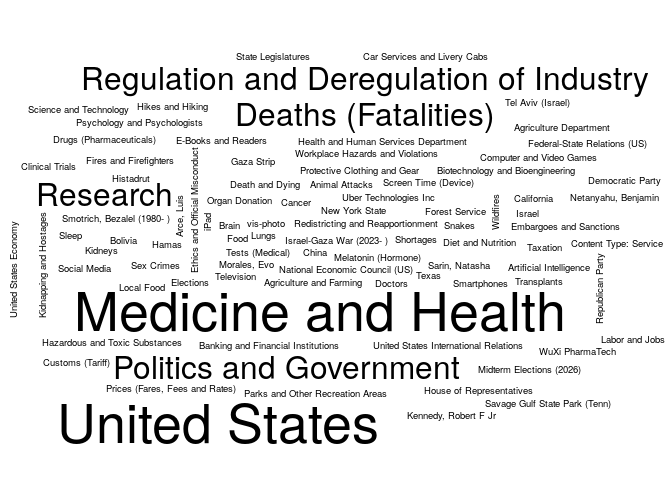
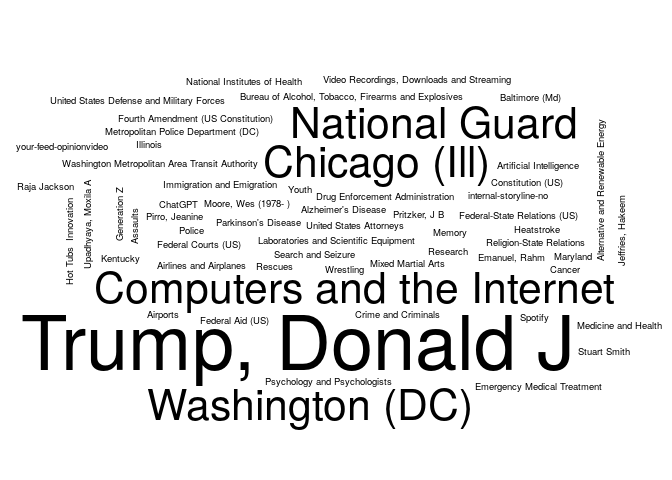
Updating the NYT report

Changed region(s): [[0.0312, 0.0938, 1.0, 0.9375], [0.0, 0.4688, 0.0312, 0.6562]]

diff --git a/03-nytimes/README.md b/03-nytimes/README.md
@@ -5,7 +5,7 @@ The following is an example of how to use the [NYTimes
 API](https://developer.nytimes.com/) to get a list of articles related
 to a particular term. Here we are searching articles that include the
 term `"health"`, and that were published up to seven days ago since
-2025-08-18.
+2025-08-25.
 
 ``` r
 # Preparing a function to use the GET method with the NYTimes API
@@ -83,25 +83,25 @@ colnames(tab) <- c("Keyword", "# Articles")
 knitr::kable(tab, row.names = FALSE)
 ```
 
-| Keyword                                 | \# Articles |
-|:----------------------------------------|------------:|
-| United States Politics and Government   |          20 |
-| International Trade and World Market    |          15 |
-| Medicine and Health                     |          15 |
-| Trump, Donald J                         |          15 |
-| United States                           |          15 |
-| Deaths (Fatalities)                     |          10 |
-| Demonstrations, Protests and Riots      |          10 |
-| Politics and Government                 |          10 |
-| Regulation and Deregulation of Industry |          10 |
-| Research                                |          10 |
-| Agriculture and Farming                 |           5 |
-| Agriculture Department                  |           5 |
-| Animal Attacks                          |           5 |
-| Arce, Luis                              |           5 |
-| Artificial Intelligence                 |           5 |
-| Banking and Financial Institutions      |           5 |
-| Biotechnology and Bioengineering        |           5 |
-| Bolivia                                 |           5 |
-| Brain                                   |           5 |
-| California                              |           5 |
+| Keyword                                              | \# Articles |
+|:-----------------------------------------------------|------------:|
+| Trump, Donald J                                      |          15 |
+| Chicago (Ill)                                        |          10 |
+| Computers and the Internet                           |          10 |
+| Federal Bureau of Investigation                      |          10 |
+| National Guard                                       |          10 |
+| United States Politics and Government                |          10 |
+| US Federal Takeover of Metropolitan Police Dept (DC) |          10 |
+| Washington (DC)                                      |          10 |
+| Airlines and Airplanes                               |           5 |
+| Airports                                             |           5 |
+| Alternative and Renewable Energy                     |           5 |
+| Alzheimer’s Disease                                  |           5 |
+| Artificial Intelligence                              |           5 |
+| Assaults                                             |           5 |
+| Baltimore (Md)                                       |           5 |
+| Bureau of Alcohol, Tobacco, Firearms and Explosives  |           5 |
+| Cancer                                               |           5 |
+| ChatGPT                                              |           5 |
+| Constitution (US)                                    |           5 |
+| Crime and Criminals                                  |           5 |
